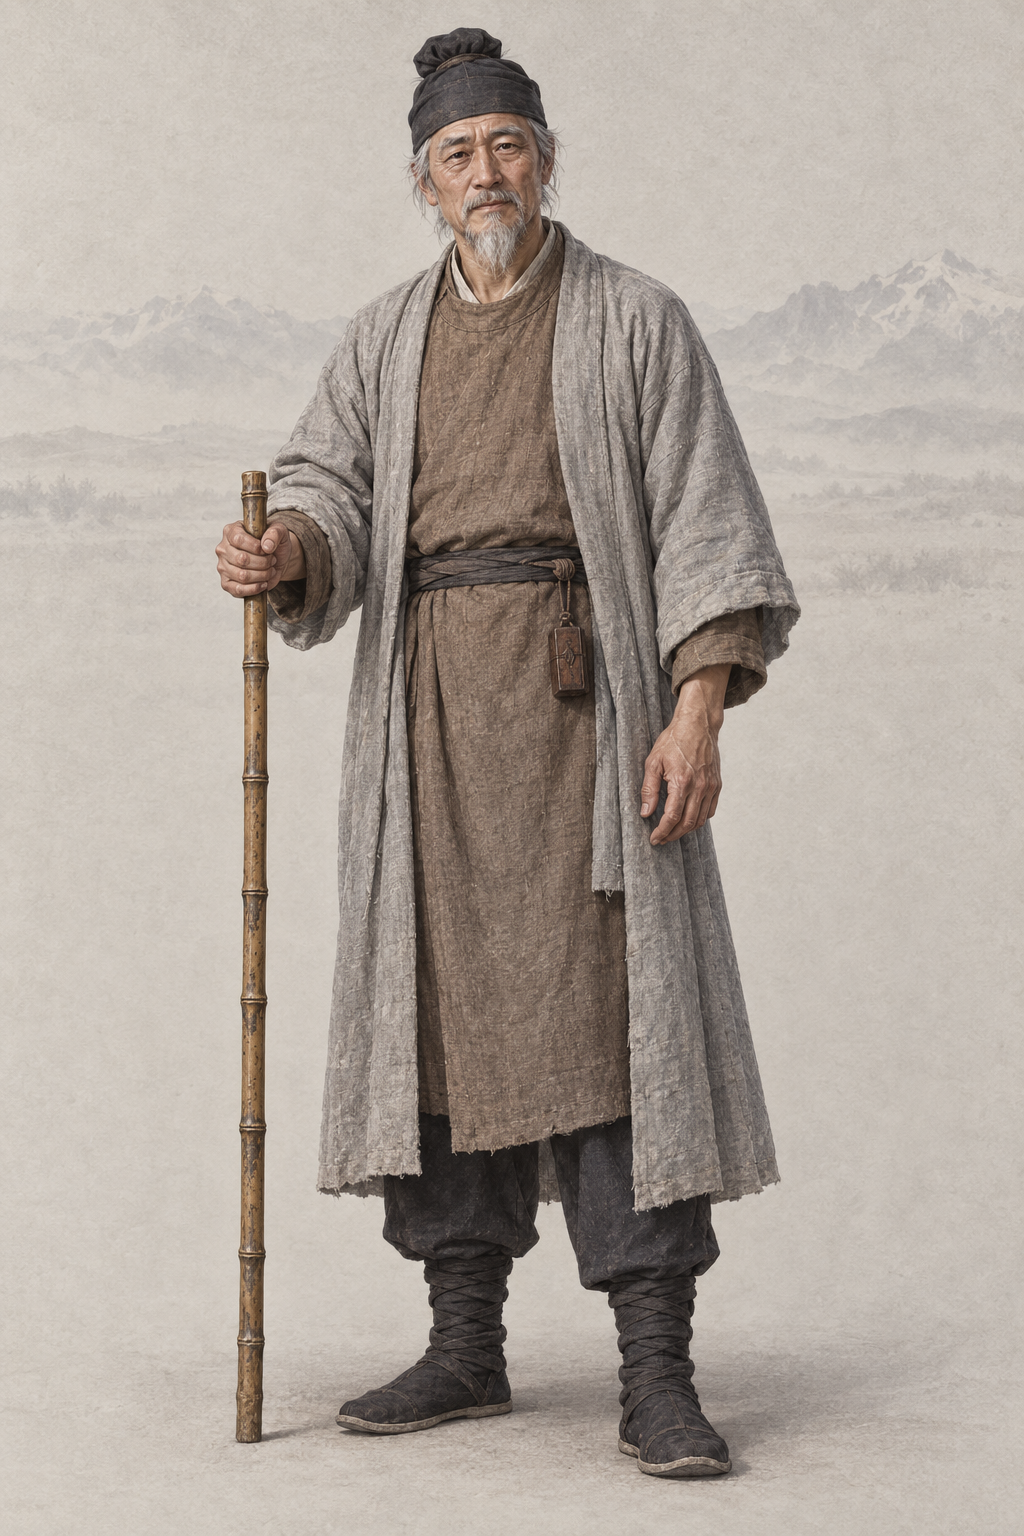
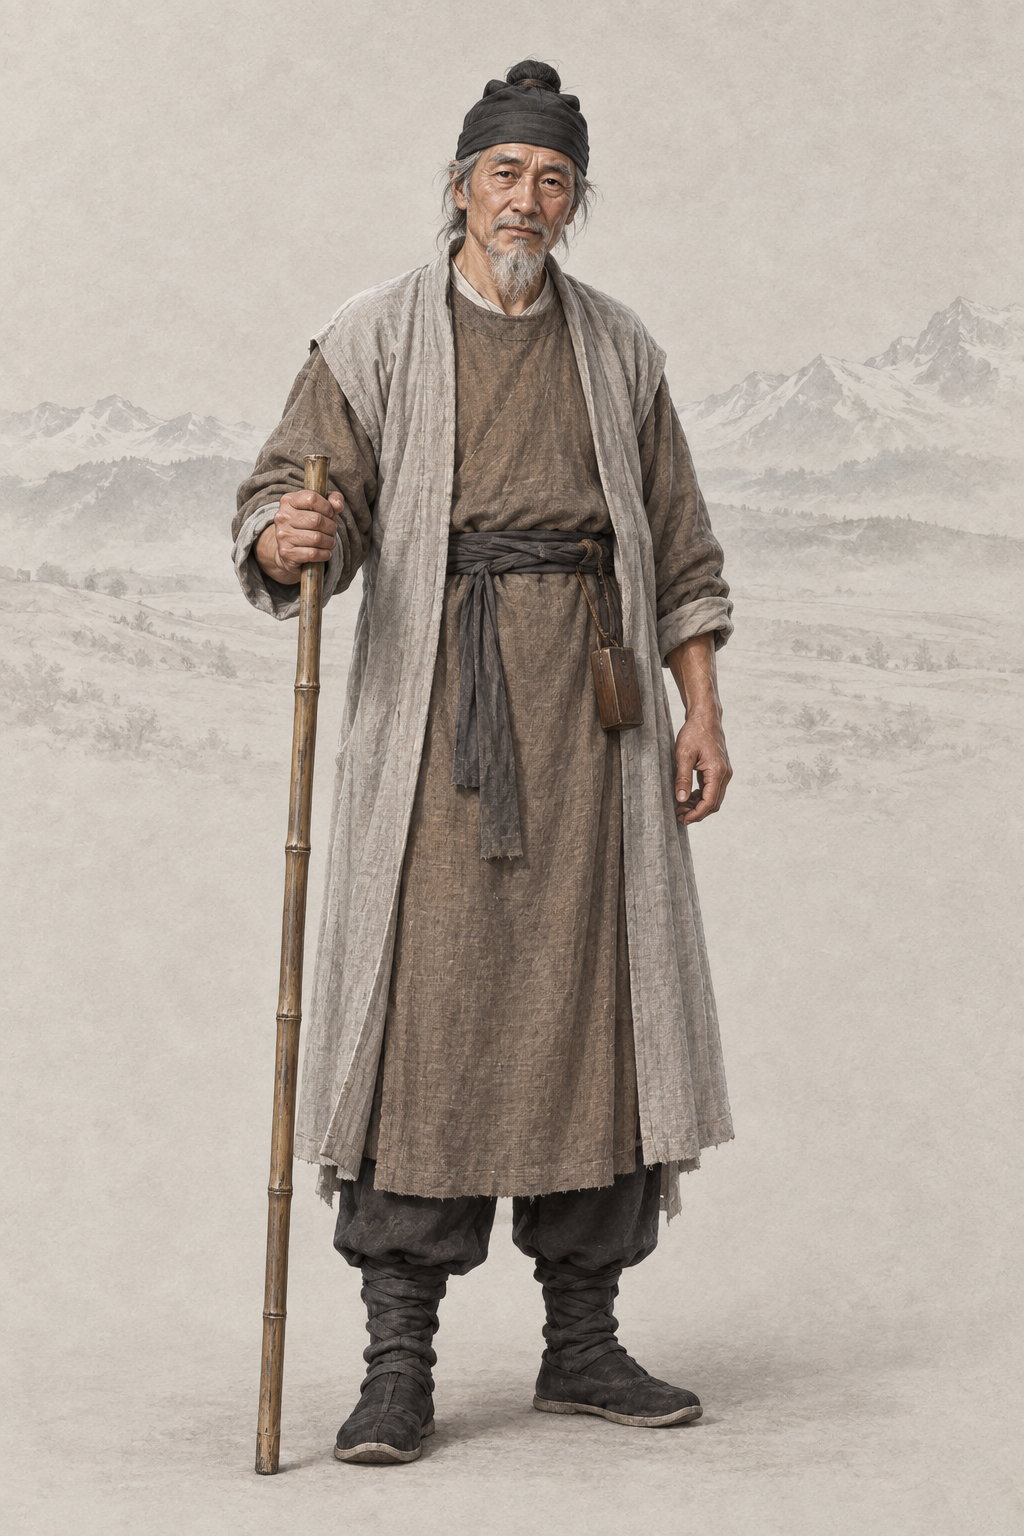
assets(character): por_npc_majiajun__ch10_elder_disguised_base 马家骏（codex · AR-32 文字 + 基线）
本人无可用剧照或可靠游戏头像，只用文字与两张同性别基线重出；提示词写回、frontmatter 加 classic_ref。

diff --git a/assets/default/prompts/characters/ch10-baima/npc_majiajun.md b/assets/default/prompts/characters/ch10-baima/npc_majiajun.md
@@ -13,14 +13,38 @@ references:
   use: 仅取画法、纸底、柔光、笔触和设色，不继承参考角色面容、年龄体型、发式、衣装或道具。实际manifest状态candidate；作者本轮明确指定男女现有基线用于生产，审批状态保留不变。SHA-256 c9f87f225636e3f8166717f1b0c8ccaf13c319210fdc6069e09289e96632fd89
 status: redo
 redo_reason: "白马改唐代（DES-baima-tang 合入）：旧图是清初剃发留辫 / 瓜皮帽 / 清式袍褂，且男女各自同脸；按唐代名录 §2 的发式、服色与标志物重出，脸部按 C 组报告 §1 区分。"
+codex_prompt_rev: 2026-10-02
 reference_upload:
 - assets/default/baseline/character/male/ref_npc_linghuchong__ch05_base01.png
-codex_prompt_rev: 2026-10-02
+- assets/default/baseline/character/male/ref_npc_xiaofeng__ch01_base01.png
+classic_ref: "无（白马已改唐代 AR-26，不用清代剧照；《金庸群侠传》里没有可靠的本人头像，只用文字与基线，按 docs/design/catalog/npcs-ch10-baima.md §2 与 chapters/10-baima.md §8.9 的唐代设定）"
 ---
 
 # 马家骏 · 《白马啸西风》（ch10）
 
 ## Gemini 提示词
+
+> 2026-10-02 AR-32 重出（8 号出图员，codex exec · image_gen）：本人没有可用的经典剧照或可靠游戏头像，只用文字与两张同性别画风基线（缩小版 JPEG，放在最后上传）；按原著与设定重写人物描写，去 AI 味、禁止幼态。上一版保留在下一节作历史。
+
+```text
+生成一张 2:3 竖幅全身人物立绘：单人、单一视角、完整全身——头顶、双手、双脚和手中器物的两端都在画面内，四周留出自然空白；人物站姿自然，身体基本朝向正面，头部端正（不歪头、不仰不俯），镜头平视。
+【参考图】随提示词上传的两张参考图都是本项目的立绘画风基线：画风、用色、光线、质感和暖浅灰纸底加淡水墨背景以它们为准；它们只管画风，不取长相、年龄、发型、服饰和姿势。人物的长相和造型完全按下面的文字来画。
+【画风】写实手绘古风人物插画，与本项目写实武侠角色立绘同一画风，像功力深厚的画师用细腻笔触画出的真实人物。手绘插画质感，不是 CG 渲染：不要过度光滑的皮肤、完美对称的五官、塑料高光、过度锐利的发丝；保留自然的笔触和细微不完美。皮肤有真实质感——细小毛孔、细纹、晒痕和自然的左右不对称，不磨皮、不油亮；头发是一缕缕自然的发丝和少量碎发；布料看得出经纬纹理、厚薄和自然垂坠的褶皱，带穿用过的轻微旧化，但完整不破烂；整体设色低饱和、沉稳；柔和的自然光从左上方照来，明暗过渡自然，不打舞台光、轮廓光或美颜柔光。不是照片，不是三维渲染，不是动漫或游戏 CG，也不是油画（没有厚涂笔触和画布纹理）。
+【背景】不透明的暖浅灰色纸底，只在远处有极淡的水墨远山（西域雪山与草坡的远影）和薄雾，大面积留白；人物与背景明暗分明、轮廓边缘干净完整（后续要自动抠图），水墨和纸纹只在背景里，不侵入人物和衣服；脚下只有很淡的一点接触阴影。
+【人物】马家骏，《白马啸西风》中化名「计老人」隐居草原、收养李文秀的汉人（华辉的前弟子）；以易容的老人身份示人的时期。
+【时代】唐代武周长安年间（约 702 年）的西域，西州—庭州一带（游戏设定）。服饰按唐代：汉人束发、戴软幞头或裹巾，穿圆领窄袖袍、半臂，骑行可穿翻领胡服；草原牧部（铁延部，突厥—铁勒背景的虚构牧部）穿翻领窄袖袍、长裤、软靴，编辫、戴毡帽。
+【年龄与体态】外表是六十多岁的老人（易容），微微驼背、拄着竹杖；但身形骨架其实是四十岁壮年人的结实。
+【经典造型】草原上慈和的汉人老人「计老人」：灰发束髻、旧幞头、土褐圆领袍外罩灰白罩衣、拄竹杖、腰挂扁木针匣；看似风烛残年，其实是易容的壮年人。
+【面容】慈和的老人脸：花白的眉毛、满脸皱纹、灰白胡须，眼神温和亲切，深处藏着警惕和愧疚；易容的破绽在脖颈和双手——那里的皮肤和筋骨仍是壮年人的，手指粗壮有力、指节分明。
+【发式】灰白头发束成小髻，戴一顶旧的黑色软幞头。
+【服饰】土褐色圆领窄袖袍（唐代平民样式），外罩一件灰白色旧罩衣，腰束布带，深色裤，布鞋。
+【道具】右手拄一根竹杖；腰间挂一只扁平的小木匣（针匣，盖子合着）。
+【姿态与神情】微驼站立，身体朝向正面，和蔼地望着前方。
+【不要】画面里不要任何文字、题款、印章、签名、水印、边框、分格或多视图；不要第二个人；不要幼态（童颜、娃娃脸、婴儿肥、儿童或少年身材、大头小身）；不要塑料感皮肤、磨皮美颜、网红脸（尖下巴大眼高鼻的模板脸）、过度对称、浓妆、偶像式打光、蜡像感；不要照片质感、三维渲染或动漫大眼；不要歪头、斜镜头；不要多指、缺指（设定的伤残除外）、手与器物粘连或悬空；衣襟必须右衽（穿着者的左襟压在右襟上），不要左衽（设定为少数民族服制的除外），不要水平镜像；不要现代物品、发光特效、法阵或能量光。不要清代剃发留辫、瓜皮帽、马褂、旗装或补服；不要明代网巾、宋代直脚幞头；不要现代民族礼服、伊斯兰式缠头或面纱、清真寺等后世宗教符号；不要用夸张的五官或肤色来表现族属。不要把双手也画老；不要凶相。
+【画风基线】随提示词上传的参考图里，最后两张是本项目的立绘画风基线：只参考它们的画风、用色、光线、质感和暖浅灰纸底加淡水墨的背景处理，整体画风必须与它们一致——精细写实的数字手绘插画，不是油画，不要厚涂笔触和画布纹理。基线图只取画风，不取长相：不要照搬基线图里人物的长相、年龄、发型、服饰和姿势。
+```
+
+## 白马唐代化版 Gemini 提示词（2026-10-02 凌晨，人物线 2 号；AR-32 重出之前，历史，不再用于出图）
 
 > 2026-10-02 白马唐代化重出（人物线 2 号）：依 `docs/design/catalog/npcs-ch10-baima.md` §2（逐人发式 / 服色 / 标志物）、`docs/design/chapters/10-baima.md` §8.9（唐代视觉语法）与 `tools/agents/reports/REVIEW-portraits-C-ch10-14.md` §1（脸部要点）改写；一律成年、去 AI 味。本轮出图只用下面这一段；下文旧稿是清初设定，只作历史与考据保留，不再用于出图。
 
